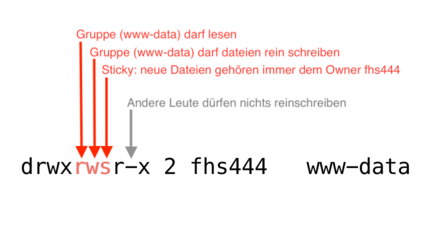
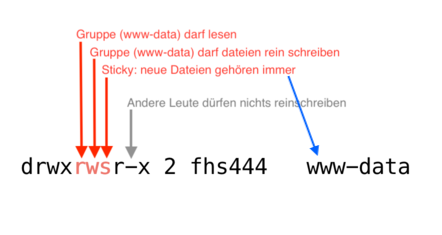
ssh remote

diff --git a/content/kommandozeile/zugriffsrechte.md b/content/kommandozeile/zugriffsrechte.md
@@ -11,7 +11,7 @@ sie vielleicht besser kennen.
 
 ### Informationen über Zugriffsrechte anzeigen
 
-Wie bereits gezeigt führen die Option **-l** und **-a** beim Befehl **ls** dazu, 
+In der UNIX Kommandozeil füren die Optionen **-l** und **-a** beim Befehl **ls** dazu,
 dass mehr Informationen angezeigt werden,
 insbesondere auch die Zugriffsrechte:
 
@@ -36,70 +36,71 @@ drwxr-xr-x    2 bjelline staff   68 Mär  2 09:18 Public
 
 Das erste Zeichen zeigt an ob es sich um eine Datei ("-") oder einen Ordner ("d") handelt.
 Hier sind es viele Ordner und drei Dateien. Danach folgen Informationen über Zugriffsrechte, und das Datum der
-letzten Änderung. 
+letzten Änderung.
 
 
 UNIX Datei-Zugriffsrechte
 ---------------
 
-Die nächste Abbildung zeigt links die Darstellung der Zugriffsrechte in der Shell, rechts das Verändern der Zugriffsrechte mit 
-einer grafischen Oberfläche (hier am Beispiel von Dreamweaver).
-
-![Abbildung 137: UNIX Zugriffsrechte mit Dreamweaver setzen](/images/zugriffsrechte-phpstorm.png)
-
-Es gibt drei Rechte (Lesen, Schreiben, Ausführen) und drei Gruppen von Usern die unterschieden werden (Eigentümer, Gruppe, Andere). 
+Es gibt drei Rechte (Lesen, Schreiben, Ausführen) und drei Gruppen von Usern die unterschieden werden: EigentümerIn, Gruppe, Andere.
 
 Die drei Rechte werden als 3 Bits gespeichert und mit den Zeichen `r`, `w`, `x` und `-` dargestellt:
-`r` steht immer an erster Stelle, und steht für Lesen, `w` steht immer an zweiter 
-Stelle und steht für Schreiben, `x` an dritter Stelle steht für Ausführen. 
+`r` steht immer an erster Stelle, und steht für Lesen, `w` steht immer an zweiter
+Stelle und steht für Schreiben, `x` an dritter Stelle steht für Ausführen.
 Ein `-` in der jeweiligen Position zeigt an, dass ein Recht nicht vergeben ist.
 
 ![Abbildung: Darstellung der UNIX Zugriffsrechte in der Kommandozeile](/images/zugriffsrechte-kommandozeile.png)
 
-Für jedes Objekt im Filesystem (egal ob Datei, Ordner, Link, ..) gilt: 
-Das Objekt ist einem Account zugeordnet  ("Eigentümer" oder "owner" genannt)  und einer
+Für jedes Objekt im Filesystem (egal ob Datei, Ordner, Link, ..) gilt:
+Das Objekt ist einem Account zugeordnet  ("EigentümerIn" oder "owner" genannt)  und einer
 Gruppe.  In der Abbildung haben die Userin "bjelline" als Besitzerin und
-die Gruppe "apache" besondere Zugriffsrechte.  
+die Gruppe "www-data" besondere Zugriffsrechte.
 
 
 * "r" oder "-" steht für das "read"-Recht: darf ich diese Datei lesen?
 * "w" oder "-" steht für das "write"-Recht: darf ich diese Datei ändern? löschen? eine Datei in diesem Ordner anlegen?
-* "x" oder "-" steht für das "execute"-Recht: 
+* "x" oder "-" steht für das "execute"-Recht:
 ** bei einer Datei: darf ich diese Datei als Programm ausführen?
 ** bei einem Ordner: darf ich in diesen Ordner hinein?
 
-In der Abbildung hat die Userin "bjelline" die Rechte die Datei **calender.dat** zu lesen und zu verändern.
-Alle anderen User (egal ob in der Gruppe "apache" oder nicht) haben nur das Recht zu lesen.
-"bjelline" und alle User in der Gruppe "apache" haben das Recht im Ordner **cl_file** Dateien
-anzulegen oder zu löschen. Alle anderen User dürfen in den Ordner wechseln und die Dateien
-auflisten, aber keine neuen Dateien anlegen.
+In der Abbildung hat die Userin "bjelline" die Rechte die Datei **index.php** zu lesen und zu verändern.
+Alle anderen User (egal ob in der Gruppe "www-data" oder nicht) haben nur das Recht zu lesen.
+"bjelline" und alle User in der Gruppe "www-data" haben das Recht im Ordner **img** Dateien
+anzulegen oder zu löschen. Alle anderen User dürfen gar nichts. 
 
 ## Zugriffsrechte setzen mit chmod
 
-<shell>
-$ ls -la public_html/index.html 
--rw------- 1 bjelline bjelline 20 Nov  6  2012 public_html/index.html
+Das funktionert auf zwei Arten: mit Buchstaben-Codes und
+oder mit 3 Oktalzahlen.
 
-$ chmod go+r public_html/index.html
-
-$ ls -la public_html/index.html 
--rw-r--r-- 1 bjelline bjelline 20 Nov  6  2012 public_html/index.html
-</shell>
+`go+r` heisst: der Gruppe und dem Owner gibt das recht zum Schreiben (read).
 
 <shell>
-$ chmod 644 public_html/index.html 
+$ ls -la webspace_mmt/index.html
+-rw------- 1 bjelline bjelline 20 Nov  6  2012 webspace_mmt/index.html
+
+$ chmod go+r webspace_mmt/index.html
+
+$ ls -la webspace_mmt/index.html
+-rw-r--r-- 1 bjelline bjelline 20 Nov  6  2012 webspace_mmt/index.html
+</shell>
+
+Die Oktalzahl 664 in die Rechte umzurechner bleibt als Rätsel:
+
+<shell>
+$ chmod 644 webspace_mmt/index.html
 </shell>
 
 
 
-## Sticky 
+## Sticky
 
-Wenn man das sticky bit am Directory setzt, dann wird
-jede Datei die in das Directory kopiert wird automatisch
-dem Owner gehören.
+Wenn man das sticky bit für die Gruppe am Directory setzt, dann wird
+jede neu Datei im Directory automatisch in diese Gruppe eingeordnet:
 
 <shell>
 $ chmod g+s img
 </shell>
 
-![Wie man das Stick bit am Directory setzt und Warum](images/kommandozeile/better-permissions-explained.png)
+![Wie man das Stick bit am Directory setzt und Warum](/images/kommandozeile/better-permissions-explained.png)
+

diff --git a/content/kommandozeile/vscode-remote-ssh.md b/content/kommandozeile/vscode-remote-ssh.md
@@ -1,0 +1,23 @@
+---
+title: VS Code
+order: 30
+---
+
+Im Editor Visual Studio Code kann man gut mit der Kommandozeile arbeiten - jeweils
+mit der Kommandozeile des Betriebssystems.  Hier auf einem Mac mit bash:
+
+![](/images/kommandozeile/vcsode-terminal.png)
+
+
+## Remote SSH
+
+Mit der Extension Remote - SSH von Microsoft kann man den Editor
+verwenden um
+
+* im Terminal mit einem UNIX Server zu arbeiten
+* im Editor die Dateien auf dem Server zu bearbeiten
+
+[Anleitung von Microsoft](https://code.visualstudio.com/docs/remote/ssh)
+
+Der Befehl lautet 
+

diff --git a/content/php/datei-upload.md b/content/php/datei-upload.md
@@ -65,7 +65,7 @@ Die Details zu den Hochgeladenen Dateien sind im Array `$_FILES` gespeichert, in
 : Der Pfad und Dateiname der temporären Datei. 
 
 `$_FILES['bild']['error']`
-: Fehlercode bei Upload, 0 bedeutet dass kein Fehler aufgetreten ist. Siehe PHP-Doku.
+: Fehlercode bei Upload, 0 bedeutet dass kein Fehler aufgetreten ist. Siehe [PHP-Doku](https://www.php.net/manual/de/features.file-upload.errors.php).
 
 ### Beispielcode
 
